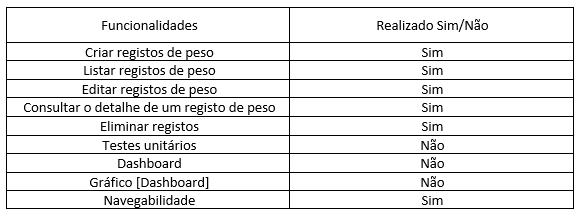
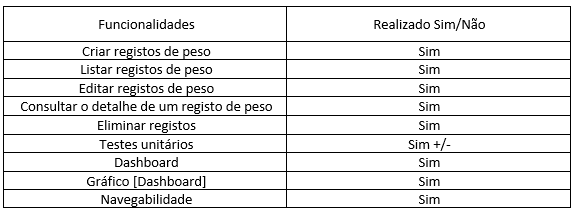
Changed table and auto evaluation

Changed region(s): [[0.0, 0.0278, 1.0, 0.9722], [0.6504, 0.0833, 0.8574, 0.1389], [0.1478, 0.0833, 0.3548, 0.1389]]

diff --git a/README.md b/README.md
@@ -6,7 +6,7 @@
 
 ## Feito por: Pedro Costa - a21904825
 
-### Autoavaliação: 12
+### Autoavaliação: 18
 
 ### Funcionalidades:
 <p align="center">
